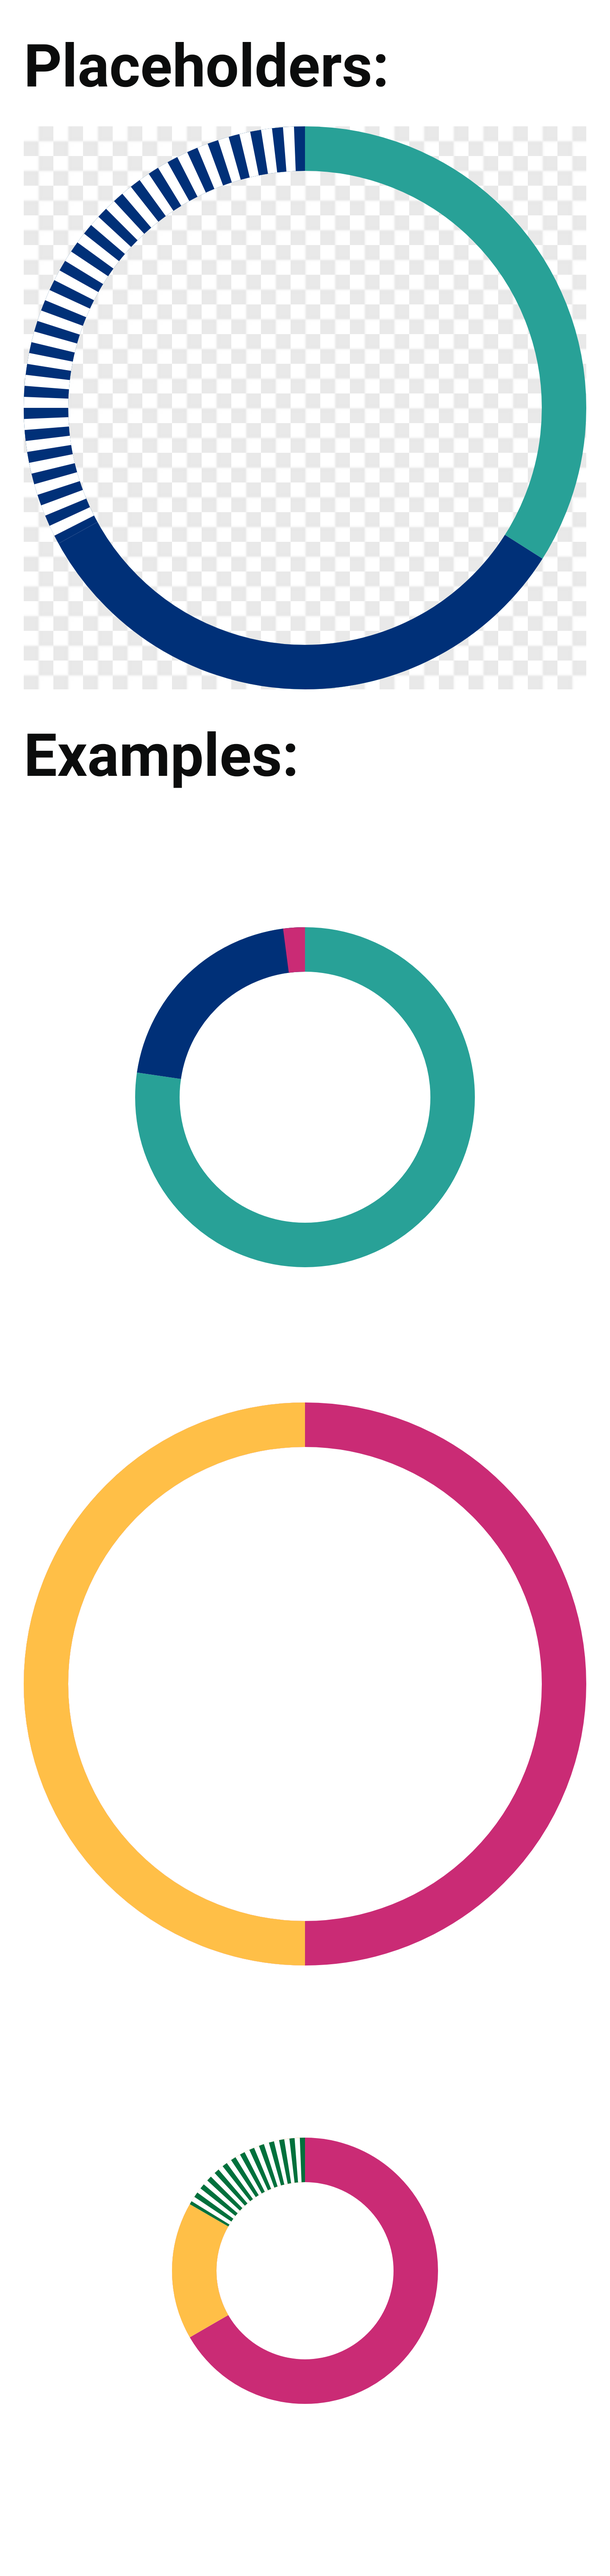
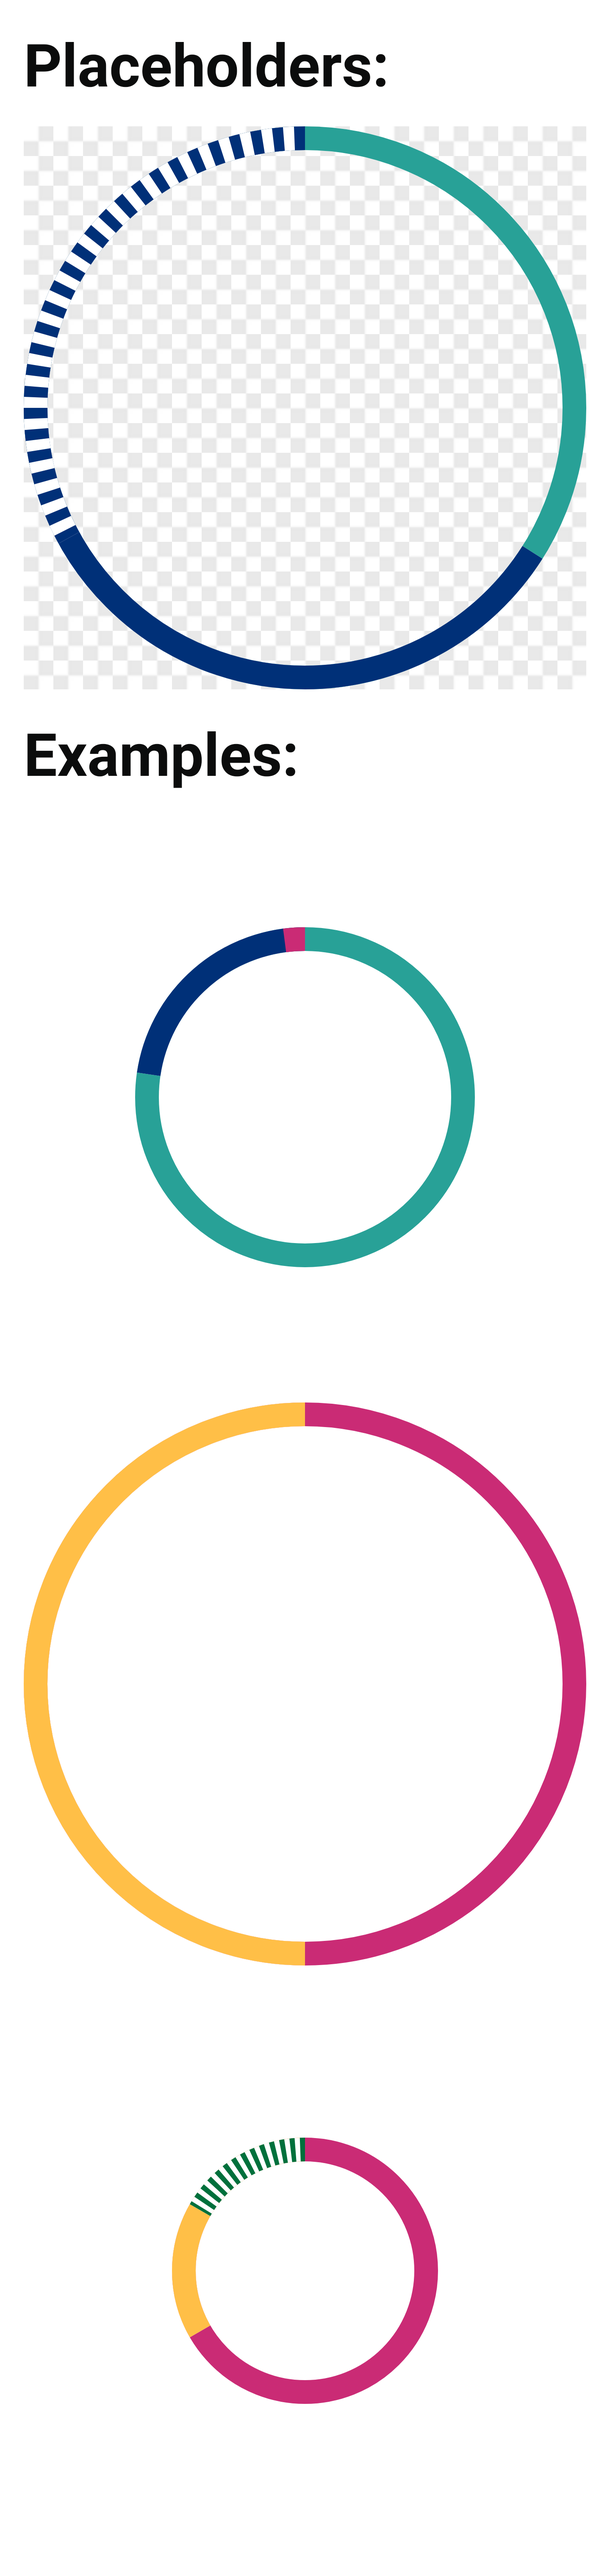
HMA-donutWidth (#96)
* HMA-donutWidth donut width

* HMA-donutWidth screenshots

diff --git a/CHANGELOG.md b/CHANGELOG.md
@@ -16,6 +16,9 @@ Allowed headings:
 
 ## [Unreleased]
 
+### Changed
+* `DonutChartView` standard width reduced.
+
 ## [4.4.0] - 2023-02-02
 
 ### Additions
